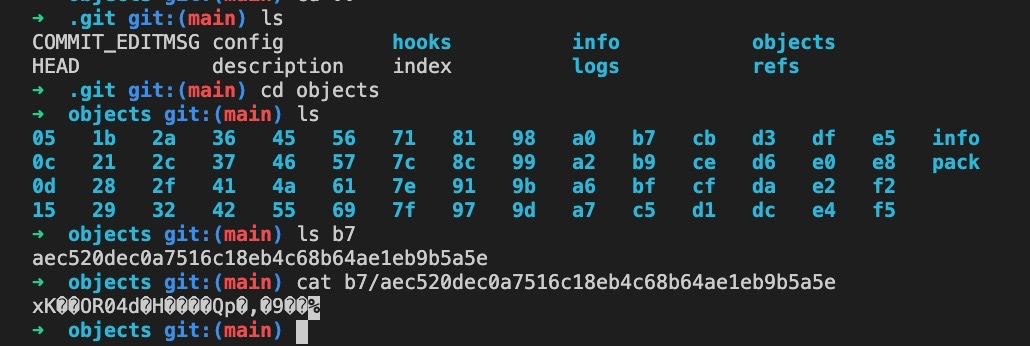
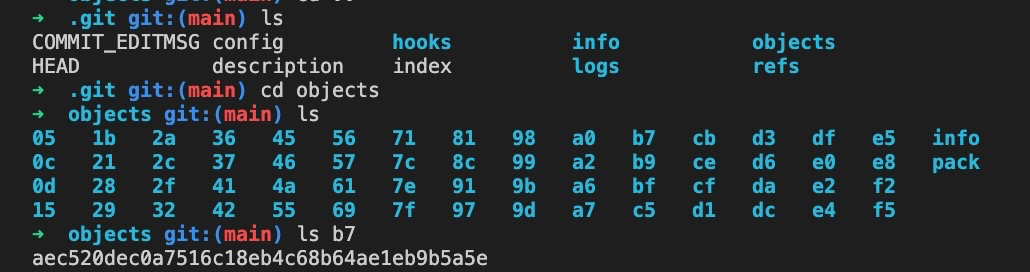
Cropped picture and added folder structure

diff --git a/under_hood/2_objects.md b/under_hood/2_objects.md
@@ -24,7 +24,7 @@ To read a `Blob` use <kbd>git cat-file</kbd>
 
 To create a `Tree` use <kbd>git mktree</kbd>
 
-When Git creates an object it turns it into a Hash. That hash is then stored inside a folder.
+When Git creates an object and stores it in it's file system, Git turns it into a Hash. That hash is then stored inside a folder it also creates.
 
 ![alt txt](./assets/creating.png "Creating Blob")
 
@@ -41,3 +41,13 @@ When Git creates an object it turns it into a Hash. That hash is then stored ins
 <kbd>--stdin</kbd> ~ This options allows <kbd>git hash-object</kbd> to take it's input from
 
 <kbd>-w</kbd> ~ Writes the file
+
+&nbsp;
+
+The `Folder name` + `File name` equals the Hash.
+
+**`Note`**:
+
+The new file or `Blob` was created ONLY in the Git repository, in the ".git/objects" folder.
+
+Our project folder "Git" is still empty, if this was all that we created (not counting hidden system .DS_Store file and .git folder)
